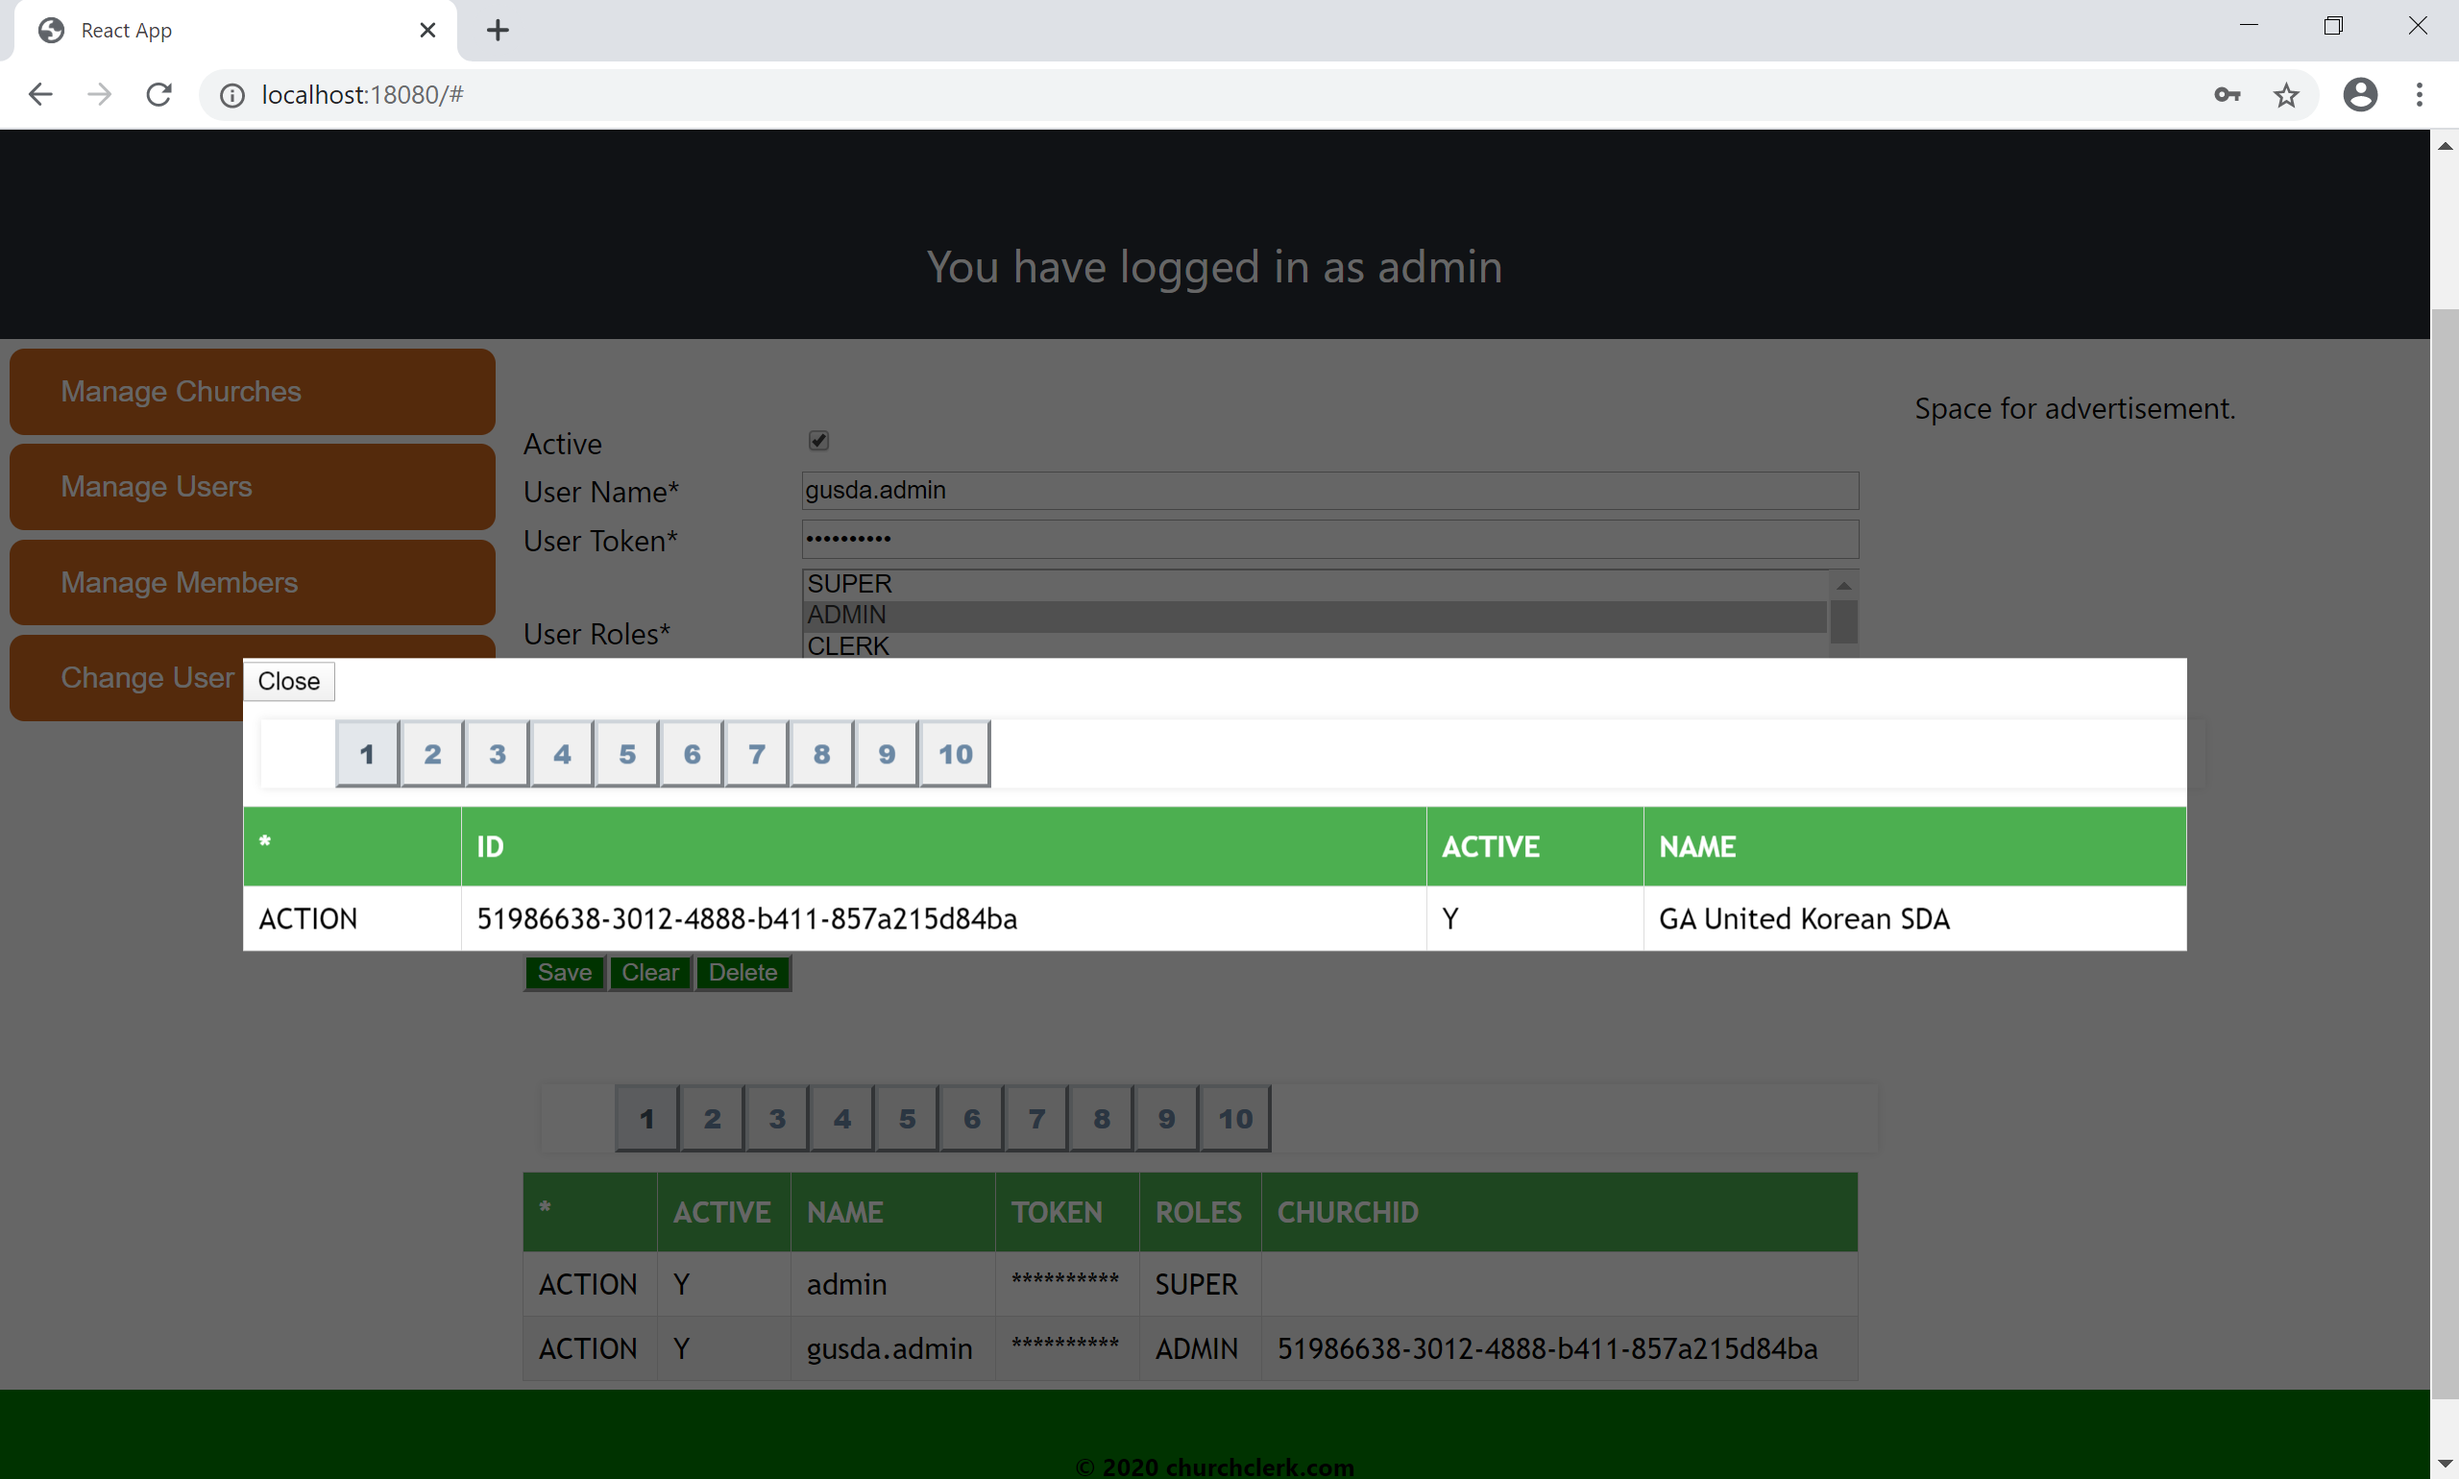
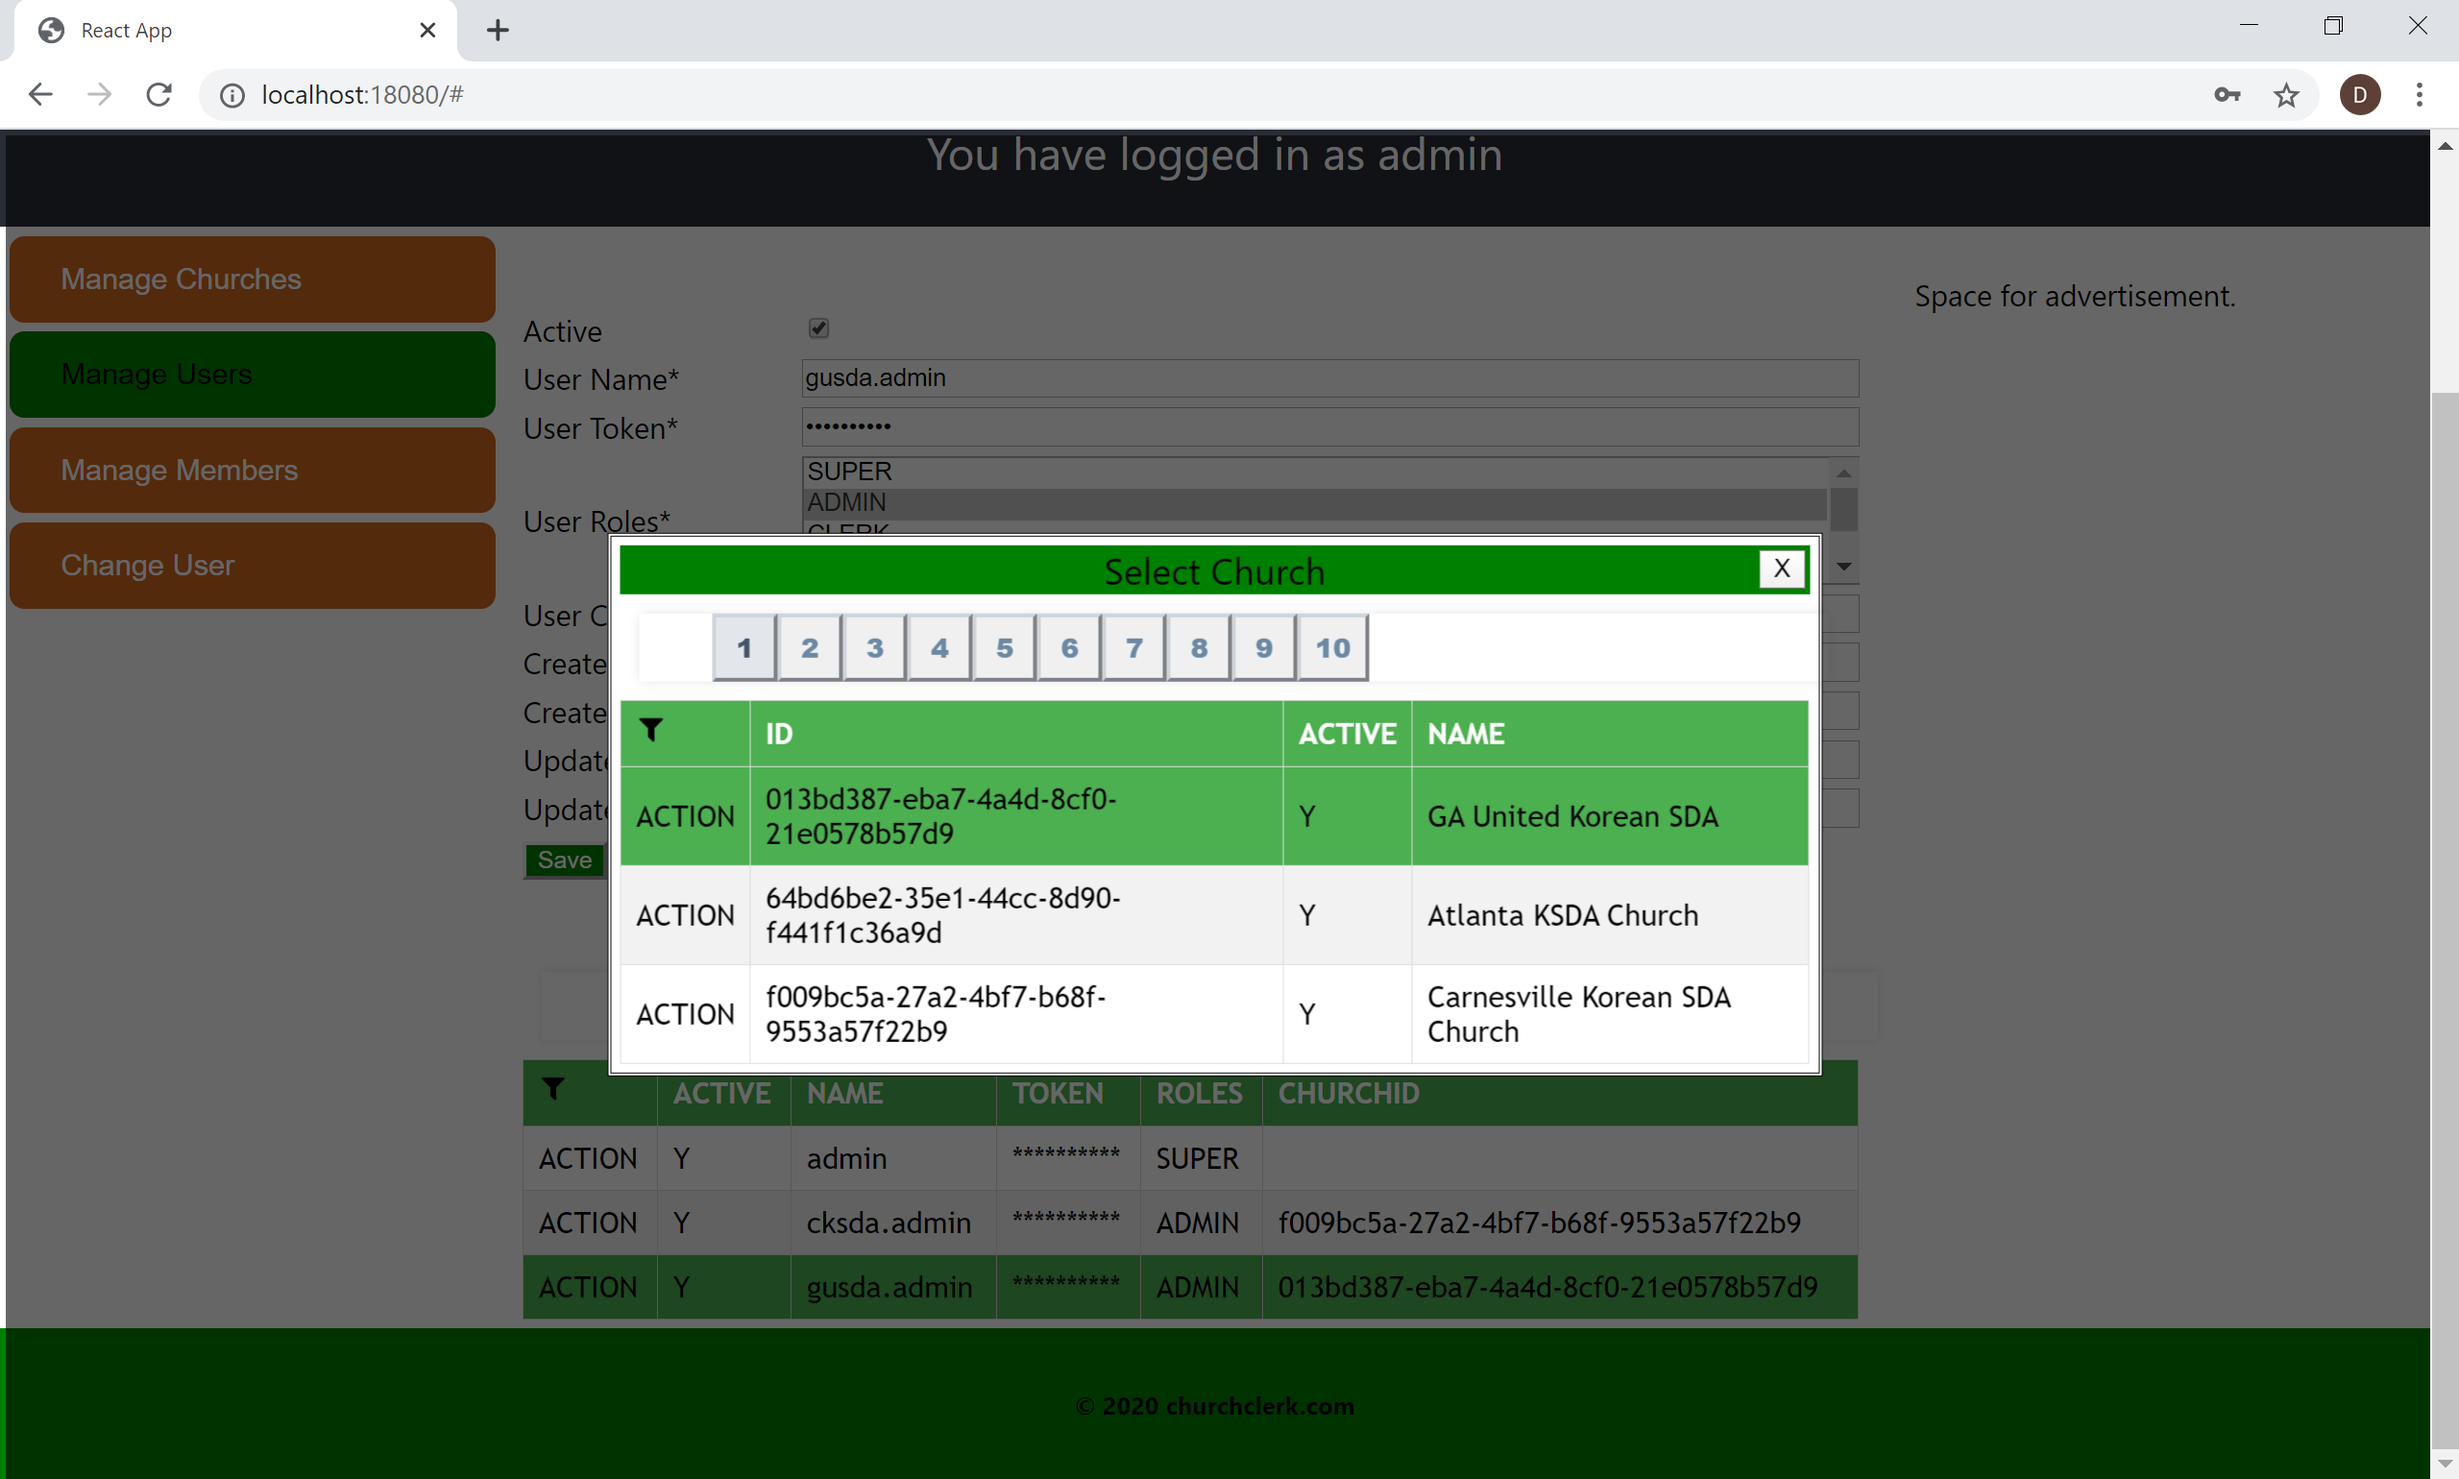
Added updated screenshots.

diff --git a/README.md b/README.md
@@ -19,6 +19,14 @@ Uses [axios](https://github.com/axios/axios) to call REST API supplied by Micros
 
  <img src="https://github.com/dongpak/churchui-react/blob/master/editchurch.png"/> 
  
+ <img src="https://github.com/dongpak/churchui-react/blob/master/churchfilter.png"/> 
+ 
+ <img src="https://github.com/dongpak/churchui-react/blob/master/manageuser.png"/>
+ 
  <img src="https://github.com/dongpak/churchui-react/blob/master/edituser.png"/> 
  
  <img src="https://github.com/dongpak/churchui-react/blob/master/churchselector.png"/>
+ 
+ <img src="https://github.com/dongpak/churchui-react/blob/master/userfilter.png"/> 
+ 
+  <img src="https://github.com/dongpak/churchui-react/blob/master/editmember.png"/> 
